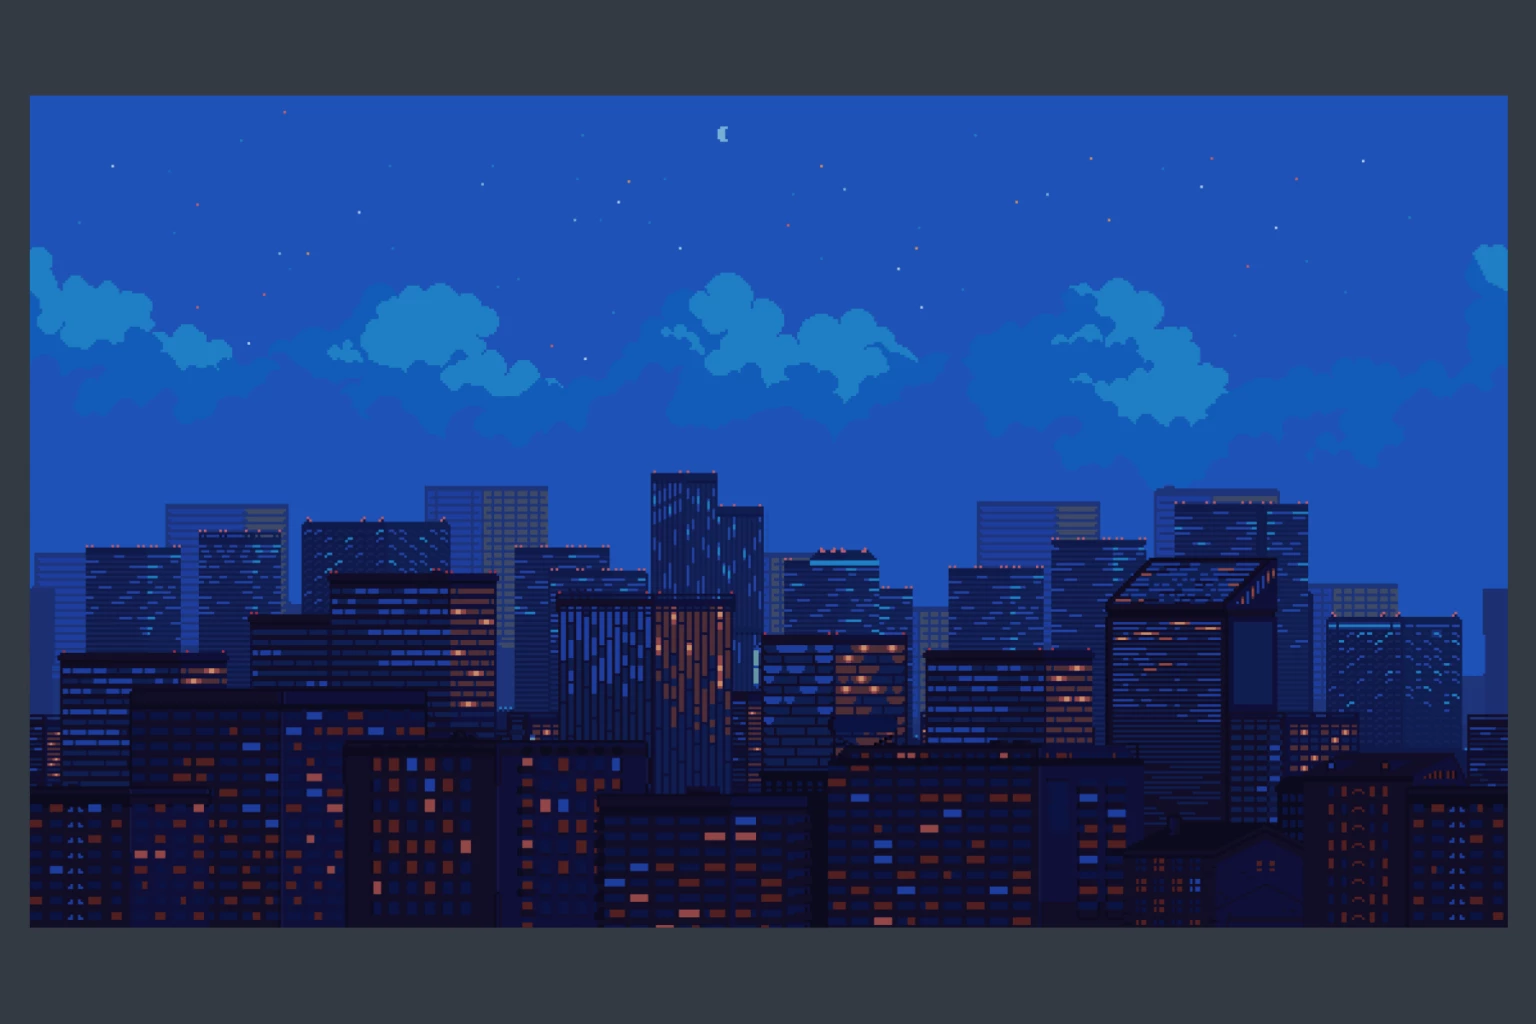
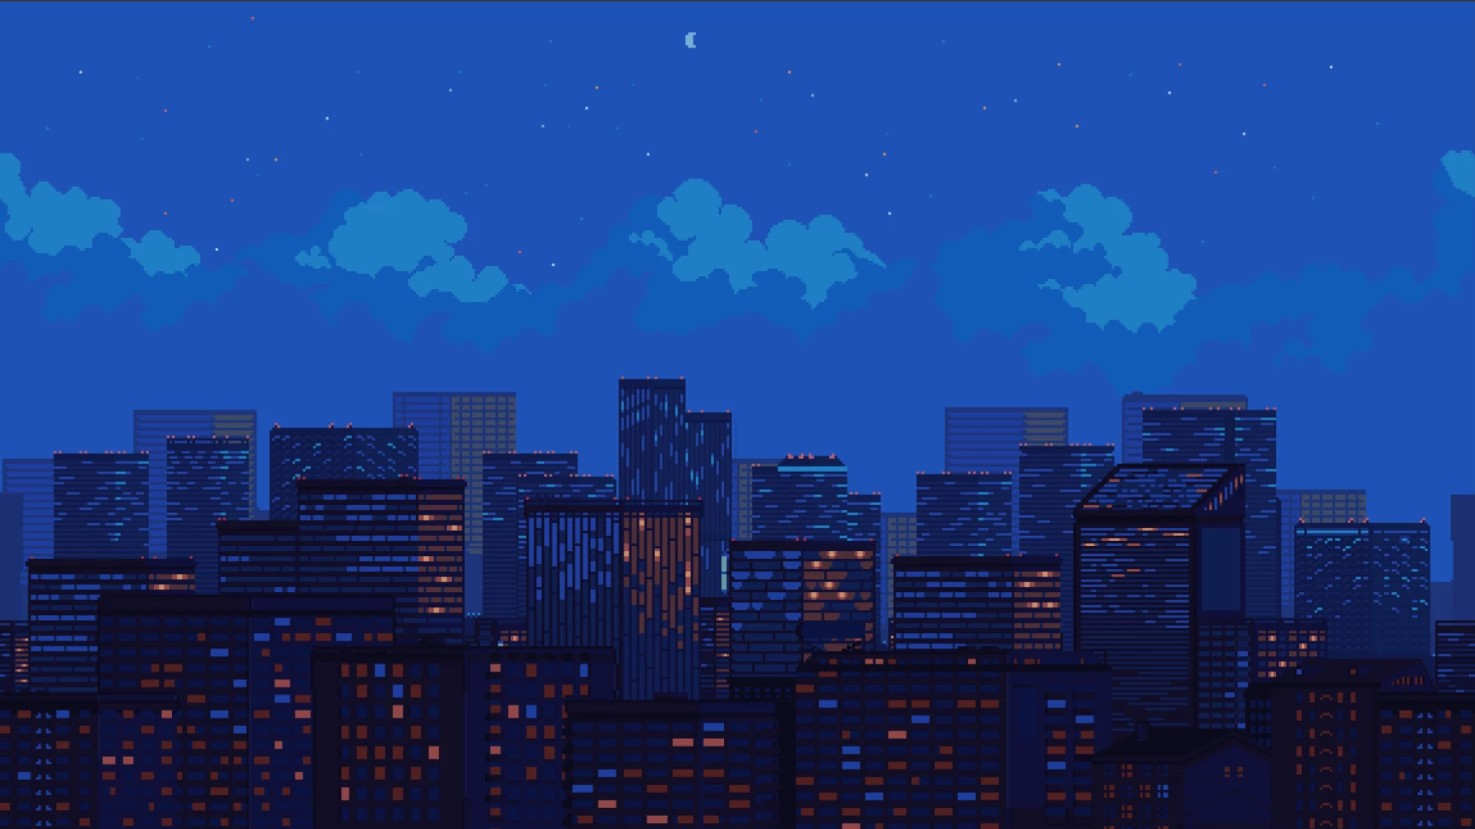
J'ai fait du cacatosse

diff --git a/metier/partie.py b/metier/partie.py
@@ -24,15 +24,9 @@ class Partie(pygame.sprite.Sprite):
         self.all_sprites.add(self.player)
         self.all_sprites.add(self.plateformes)
 
-        #Charger le background de la partie 
-
-        self.background = pygame.image.load(os.path.join("IMG/Level-Font", "Free-City-Backgrounds-Pixel-Art2-1536x1024.jpg")).convert()
-        self.bg_width = self.background.get_width()
-
-
         self.all_sprites.add(self.powersUp)
         self.all_sprites.add(self.ennemies)
-        self.run()
+        self.run(screen)
 
     def update(self):
         self.all_sprites.update()
@@ -49,17 +43,27 @@ class Partie(pygame.sprite.Sprite):
         self.player.sended_projectile.draw(self.screen)
         pygame.display.flip()
 
-    def run(self):
+    def run(self,screen):
         clock = pygame.time.Clock()
+        background = pygame.image.load("IMG/Level-Font/Free-City-Backgrounds-Pixel-Art2-1536x1024.jpg")  
+        background = pygame.transform.scale(background, (Config.screen_width, Config.screen_height))  # Ajuster la taille si nécessaire
         running = True
         while running:
+            clock.tick(60)  # Limite à 60 FPS
             for event in pygame.event.get():
                 if event.type == pygame.QUIT:
                     running = False
                 elif event.type == pygame.KEYDOWN:
                     if event.key == pygame.K_UP:
                         self.player.jump()
+            # **1. Dessiner l'image de fond d'abord**
+            screen.blit(background, (0, 0))
+            
+            # **2. Mettre à jour et dessiner les sprites**
             self.update()
-            self.draw()
-            clock.tick(60)
+            self.all_sprites.draw(self.screen)
+            self.player.sended_projectile.draw(self.screen)
+
+            # **3. Mettre à jour l'affichage (évite le clignotement)**
+            pygame.display.update()  # Peut aussi être pygame.display.flip()
         pygame.quit()

diff --git a/main.py b/main.py
@@ -21,6 +21,8 @@ def main():
     pygame.init()
     screen = pygame.display.set_mode((Config.screen_width, Config.screen_height))
     pygame.display.set_caption("Futur")
+
+    #background = pygame.transform.scale(background, (WIDTH, HEIGHT))  
     powerUp1 = PowerUp(500,800,"powerUp/powerUp.png")
     powerUp2 = PowerUp(900, 800, "powerUp/powerUp.png")
     player1 = Player(0,750)

diff --git a/config/config.py b/config/config.py
@@ -1,6 +1,6 @@
 class Config:
-    screen_height = 950
-    screen_width = 1720
-    env_height = 950
-    env_width = 1720
+    screen_height = 1080
+    screen_width = 1920
+    env_height = 1080
+    env_width = 1920
     GRAVITY = 0.5
